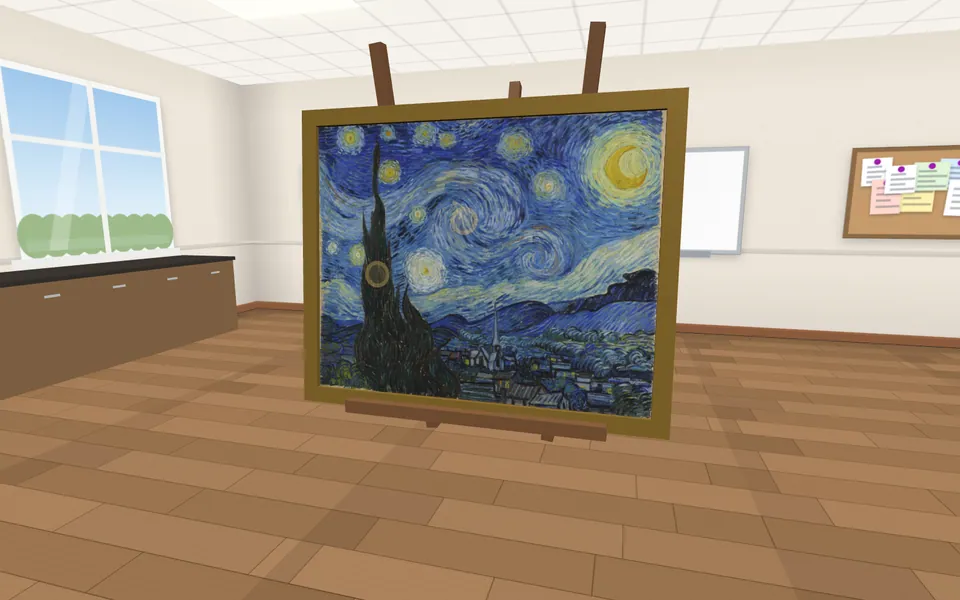
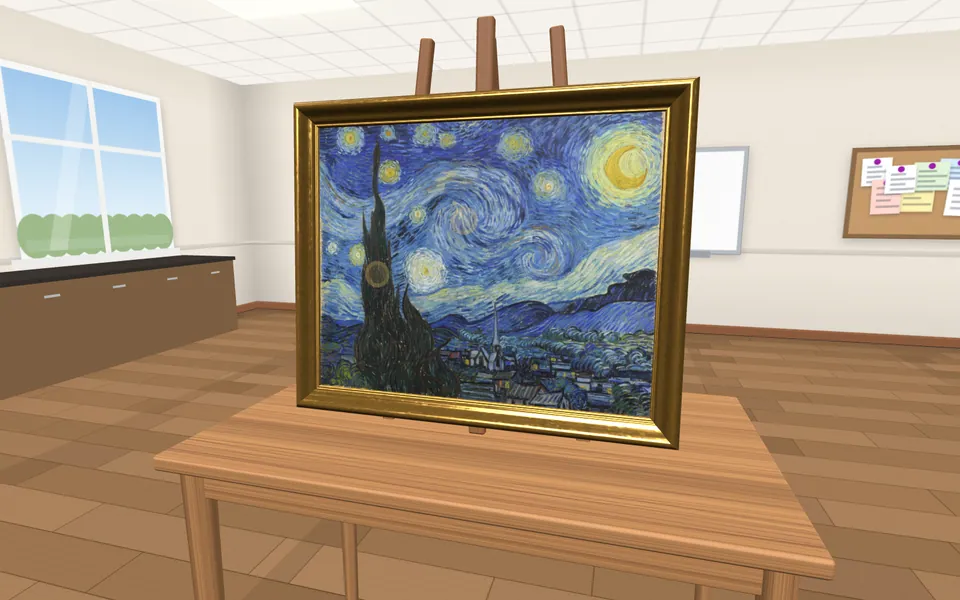
Art Gallery: carved gilt frames with mitred corners, wood grain, a proper desk and studio easel, varnish and canvas weave, studio reflections; refresh its pictures

Changed region(s): [[0.1562, 0.03, 0.875, 1.0], [0.3438, 0.9, 0.375, 1.0]]

diff --git a/lessons/art-gallery/src/model/Props.js b/lessons/art-gallery/src/model/Props.js
@@ -1,0 +1,253 @@
+import * as THREE from 'three';
+import { RoundedBoxGeometry } from 'three/addons/geometries/RoundedBoxGeometry.js';
+
+// The furniture of the Art Gallery, made in code (nothing downloaded): wood with a real grain, a carved gilt
+// frame moulding with mitred corners, the canvas weave under the varnish, a desk and a studio easel.
+
+const cache = new Map();
+const once = (key, make) => {
+  if (!cache.has(key)) cache.set(key, make());
+  return cache.get(key);
+};
+
+function canvasTexture(w, h, draw, srgb = true) {
+  const c = document.createElement('canvas');
+  c.width = w;
+  c.height = h;
+  draw(c.getContext('2d'), w, h);
+  const t = new THREE.CanvasTexture(c);
+  if (srgb) t.colorSpace = THREE.SRGBColorSpace;
+  t.wrapS = t.wrapT = THREE.RepeatWrapping;
+  t.anisotropy = 8;
+  return t;
+}
+
+// a small seeded random, so the grain is the same every time
+function rng(seed) {
+  let s = seed;
+  return () => ((s = (s * 16807) % 2147483647) / 2147483647);
+}
+
+/** Wood grain running along the texture's width: long wavy streaks, darker growth lines and a few knots. */
+function grain(base, dark, seed) {
+  return canvasTexture(512, 512, (g, W, H) => {
+    const r = rng(seed);
+    g.fillStyle = base;
+    g.fillRect(0, 0, W, H);
+    // broad tonal bands
+    for (let i = 0; i < 14; i++) {
+      g.fillStyle = `rgba(${dark},${0.04 + r() * 0.08})`;
+      g.fillRect(0, r() * H, W, 8 + r() * 40);
+    }
+    // the grain lines: thin, slightly wavy
+    for (let i = 0; i < 170; i++) {
+      const y0 = r() * H, amp = 2 + r() * 6, f = 0.004 + r() * 0.01, ph = r() * 6;
+      g.strokeStyle = `rgba(${dark},${0.08 + r() * 0.22})`;
+      g.lineWidth = 0.6 + r() * 1.6;
+      g.beginPath();
+      for (let x = 0; x <= W; x += 8) {
+        const y = y0 + Math.sin(x * f + ph) * amp;
+        x ? g.lineTo(x, y) : g.moveTo(x, y);
+      }
+      g.stroke();
+    }
+    // two small knots, with the grain flowing around them
+    for (let k = 0; k < 2; k++) {
+      const cx = r() * W, cy = r() * H;
+      for (let j = 6; j > 0; j--) {
+        g.strokeStyle = `rgba(${dark},${0.12 + j * 0.03})`;
+        g.lineWidth = 1.2;
+        g.beginPath();
+        g.ellipse(cx, cy, j * 5, j * 2, 0, 0, Math.PI * 2);
+        g.stroke();
+      }
+    }
+    // fine pores
+    for (let i = 0; i < 3000; i++) {
+      g.fillStyle = `rgba(${dark},${r() * 0.12})`;
+      g.fillRect(r() * W, r() * H, 1 + r() * 3, 1);
+    }
+  });
+}
+
+const grains = {
+  desk: () => once('g-desk', () => grain('#a8774a', '70,40,20', 7)),
+  easel: () => once('g-easel', () => grain('#8a5a34', '50,28,12', 31)),
+  back: () => once('g-back', () => grain('#6d5338', '40,26,14', 53)),
+};
+
+/**
+ * A wood material. `along`: which way the grain runs on the part ('x' for a long table top, 'y' for a leg).
+ * `repeat`: how many times the texture repeats along the grain.
+ */
+export function woodMaterial(kind = 'desk', along = 'x', repeat = 1) {
+  return once(`wood-${kind}-${along}-${repeat}`, () => {
+    const map = grains[kind]().clone();
+    map.needsUpdate = true;
+    map.center.set(0.5, 0.5);
+    if (along === 'y') map.rotation = Math.PI / 2;
+    map.repeat.set(repeat, 1);
+    return new THREE.MeshStandardMaterial({ map, bumpMap: map, bumpScale: 0.6, roughness: 0.58, envMapIntensity: 0.5 });
+  });
+}
+
+/** Burnished gold leaf: warm, reflective, with worn and darker patches. */
+export function goldMaterial() {
+  return once('gold', () => {
+    const map = canvasTexture(256, 256, (g, W, H) => {
+      const r = rng(101);
+      g.fillStyle = '#ffffff';
+      g.fillRect(0, 0, W, H);
+      for (let i = 0; i < 900; i++) {
+        g.fillStyle = `rgba(${r() < 0.7 ? '90,60,20' : '255,240,200'},${r() * 0.14})`;
+        const s = 1 + r() * 7;
+        g.fillRect(r() * W, r() * H, s, s * (0.3 + r()));
+      }
+    });
+    const rough = canvasTexture(128, 128, (g, W, H) => {
+      const r = rng(202);
+      g.fillStyle = '#5a5a5a';
+      g.fillRect(0, 0, W, H);
+      for (let i = 0; i < 600; i++) {
+        g.fillStyle = `rgba(${r() < 0.5 ? '255,255,255' : '0,0,0'},${r() * 0.25})`;
+        g.fillRect(r() * W, r() * H, 1 + r() * 5, 1 + r() * 5);
+      }
+    }, false);
+    return new THREE.MeshStandardMaterial({ color: 0xc79a48, map, metalness: 0.88, roughness: 0.44, roughnessMap: rough, envMapIntensity: 1.0 });
+  });
+}
+
+/** The canvas weave, felt rather than seen through the varnish (a bump texture; tile it about every 5 mm). */
+export function weave() {
+  return once('weave', () => canvasTexture(32, 32, (g, W, H) => {
+    g.fillStyle = '#808080';
+    g.fillRect(0, 0, W, H);
+    for (let i = 0; i < 4; i++) {
+      g.fillStyle = 'rgba(255,255,255,0.35)';
+      g.fillRect(0, i * 8 + 1, W, 4);
+      g.fillStyle = 'rgba(0,0,0,0.25)';
+      g.fillRect(i * 8 + 1, 0, 4, H);
+    }
+  }, false));
+}
+
+// ── the frame moulding ─────────────────────────────────
+
+// The moulding's cross-section from the inner edge outwards: [out, depth], in frame widths. A lip over the canvas
+// edge, a bead, a hollow (cove), the rounded crest (ogee) and the outer edge, then the back.
+const PROFILE = [
+  [-0.05, 0.02], [-0.05, 0.09], [0.0, 0.13], [0.05, 0.11], [0.1, 0.13], [0.14, 0.2],
+  [0.2, 0.24], [0.28, 0.26], [0.36, 0.3], [0.44, 0.38], [0.52, 0.47], [0.6, 0.53],
+  [0.68, 0.56], [0.76, 0.56], [0.83, 0.52], [0.89, 0.45], [0.94, 0.36], [0.98, 0.27],
+  [1.0, 0.2], [1.0, -0.12], [0.6, -0.12],
+];
+
+/**
+ * The frame round a w × h painting, t wide: each point of the cross-section traced round the rectangle, so the
+ * corners are mitred like a real frame. The canvas is at z = 0, facing +z.
+ */
+export function frameGeometry(w, h, t) {
+  const pos = [], uv = [], index = [];
+  const n = PROFILE.length;
+  for (let s = 0; s < 4; s++) {
+    const base = pos.length / 3;
+    for (let i = 0; i < n; i++) {
+      const [o, z] = PROFILE[i];
+      const X = w / 2 + o * t, Y = h / 2 + o * t;
+      const c = [[-X, -Y], [X, -Y], [X, Y], [-X, Y]]; // anticlockwise seen from the front
+      const a = c[s], b = c[(s + 1) % 4];
+      pos.push(a[0], a[1], z * t, b[0], b[1], z * t);
+      const len = s % 2 ? h : w;
+      uv.push(0, i / (n - 1), len / 0.25, i / (n - 1));
+    }
+    for (let i = 0; i < n - 1; i++) {
+      const a = base + i * 2, b = a + 1, c = a + 3, d = a + 2;
+      index.push(a, c, b, a, d, c);
+    }
+  }
+  const geo = new THREE.BufferGeometry();
+  geo.setAttribute('position', new THREE.Float32BufferAttribute(pos, 3));
+  geo.setAttribute('uv', new THREE.Float32BufferAttribute(uv, 2));
+  geo.setIndex(index);
+  geo.computeVertexNormals();
+  return geo;
+}
+
+// ── furniture ──────────────────────────────────────────
+
+/** A square leg that tapers towards the foot (a four-sided cylinder turned to square). */
+function taperedLeg(top, foot, h, mat) {
+  const m = new THREE.Mesh(new THREE.CylinderGeometry(top * Math.SQRT1_2, foot * Math.SQRT1_2, h, 4, 1), mat);
+  m.rotation.y = Math.PI / 4;
+  return m;
+}
+
+/** A wooden desk whose top surface is at y = topY, centred on (0, z). */
+export function desk(topY, z, w = 1.3, d = 0.75, floorY = topY - 0.9) {
+  const g = new THREE.Group();
+  const top = new THREE.Mesh(new RoundedBoxGeometry(w, 0.035, d, 3, 0.008), woodMaterial('desk', 'x', 1));
+  top.position.set(0, topY - 0.0175, z);
+  g.add(top);
+  // the apron: boards just under the top, joining the legs
+  const apron = woodMaterial('desk', 'x', 2);
+  const legIn = 0.06;
+  for (const [aw, ad, x, zz] of [[w - 2 * legIn, 0.02, 0, z + d / 2 - legIn], [w - 2 * legIn, 0.02, 0, z - d / 2 + legIn], [0.02, d - 2 * legIn, -w / 2 + legIn, z], [0.02, d - 2 * legIn, w / 2 - legIn, z]]) {
+    const b = new THREE.Mesh(new RoundedBoxGeometry(aw, 0.08, ad, 2, 0.004), apron);
+    b.position.set(x, topY - 0.035 - 0.04, zz);
+    g.add(b);
+  }
+  const legH = topY - 0.035 - floorY;
+  const legMat = woodMaterial('desk', 'y', 1);
+  for (const sx of [-1, 1]) for (const sz of [-1, 1]) {
+    const l = taperedLeg(0.05, 0.034, legH, legMat);
+    l.position.set(sx * (w / 2 - legIn), floorY + legH / 2, z + sz * (d / 2 - legIn));
+    g.add(l);
+  }
+  return g;
+}
+
+/**
+ * A studio table easel standing on y = baseY: two splayed front legs, a back leg, a central mast, a crossbar, a
+ * tray with a lip at trayY for the painting to rest on, and a top clamp (move `clamp.position.y` to the
+ * painting's top edge). Leans back by `lean`.
+ */
+export function easel(baseY, trayY, trayZ, lean = 0.08) {
+  const g = new THREE.Group();
+  const mat = woodMaterial('easel', 'y', 1);
+  const across = woodMaterial('easel', 'x', 1);
+  const H = 0.95;
+  const piece = (w, h, d, m = mat) => new THREE.Mesh(new RoundedBoxGeometry(w, h, d, 2, Math.min(w, d) * 0.25), m);
+  // front legs: wider at the foot, leaning back with the painting
+  for (const sx of [-1, 1]) {
+    const l = piece(0.032, H, 0.024);
+    l.position.set(sx * 0.2, baseY + H / 2 - 0.02, -0.15);
+    l.rotation.set(-lean, 0, sx * 0.1);
+    g.add(l);
+  }
+  // back leg: its foot behind, its top meeting the front legs
+  const back = piece(0.03, H * 1.02, 0.022);
+  back.position.set(0, baseY + H / 2 - 0.02, -0.33);
+  back.rotation.x = 0.32;
+  g.add(back);
+  // the mast: up the middle, behind the painting
+  const mast = piece(0.04, H, 0.022);
+  mast.position.set(0, baseY + H / 2, trayZ - 0.065);
+  mast.rotation.x = -lean;
+  g.add(mast);
+  // a crossbar between the front legs, low down
+  const bar = piece(0.36, 0.024, 0.02, across);
+  bar.position.set(0, baseY + 0.03, -0.12);
+  g.add(bar);
+  // the tray (with a lip at the front, so the painting cannot slide off)
+  const tray = piece(0.62, 0.022, 0.1, across);
+  tray.position.set(0, trayY - 0.011, trayZ - 0.03);
+  g.add(tray);
+  const lip = piece(0.62, 0.03, 0.012, across);
+  lip.position.set(0, trayY + 0.006, trayZ + 0.017);
+  g.add(lip);
+  // the top clamp, sliding on the mast
+  const clamp = piece(0.11, 0.03, 0.05, across);
+  clamp.position.set(0, trayY + 0.4, trayZ - 0.035);
+  g.add(clamp);
+  return { group: g, clamp };
+}

diff --git a/lessons/art-gallery/src/model/Gallery.js b/lessons/art-gallery/src/model/Gallery.js
@@ -1,5 +1,6 @@
 import * as THREE from 'three';
 import { PAINTINGS } from '../data/paintings.js';
+import { woodMaterial, goldMaterial, weave, frameGeometry, desk, easel } from './Props.js';
 
 // The easel on the desk, the painting on it (real size whenever it fits, otherwise scaled down to fit), its
 // hotspots, the "True Size" copy standing behind the desk, and the zoom for the guessing game.
@@ -10,36 +11,31 @@ const AT = new THREE.Vector3(0, TOP + 0.1, -0.05); // the bottom middle of the p
 const BIG_BACK = 1.9; // m behind the desk: the true-size painting
 const loader = new THREE.TextureLoader();
 
-const wood = new THREE.MeshStandardMaterial({ color: 0x7a5232, roughness: 0.7 });
-const frameMat = new THREE.MeshStandardMaterial({ color: 0xb8913f, metalness: 0.55, roughness: 0.35 });
-const backMat = new THREE.MeshStandardMaterial({ color: 0x6b5338, roughness: 0.9 }); // the board behind the canvas
-
 /** A painting in its gilt frame: a group whose painting mesh is w by h metres. */
 function framed() {
   const g = new THREE.Group();
-  const canvas = new THREE.Mesh(new THREE.PlaneGeometry(1, 1), new THREE.MeshStandardMaterial({ color: 0xffffff, roughness: 0.85 }));
+  // the painted canvas: a varnished sheen, and the weave just felt under it
+  const bump = weave().clone();
+  bump.needsUpdate = true;
+  const canvas = new THREE.Mesh(new THREE.PlaneGeometry(1, 1), new THREE.MeshStandardMaterial({ color: 0xffffff, roughness: 0.5, bumpMap: bump, bumpScale: 0.35, envMapIntensity: 0.3 }));
   g.add(canvas);
-  const back = new THREE.Mesh(new THREE.BoxGeometry(1, 1, 1), backMat);
+  // the back board, so it is solid from behind
+  const back = new THREE.Mesh(new THREE.BoxGeometry(1, 1, 1), woodMaterial('back', 'x', 1));
   g.add(back);
-  const bars = [0, 1, 2, 3].map(() => {
-    const m = new THREE.Mesh(new THREE.BoxGeometry(1, 1, 1), frameMat);
-    g.add(m);
-    return m;
-  });
-  return { g, canvas, bars, back };
+  const frame = new THREE.Mesh(new THREE.BufferGeometry(), goldMaterial());
+  g.add(frame);
+  return { g, canvas, back, frame, bump };
 }
 
 function sizeFrame(f, w, h) {
   f.canvas.scale.set(w, h, 1);
-  f.back.scale.set(w, h, 0.02);
-  f.back.position.z = -0.011; // just behind the canvas, so it is solid from behind
-  const t = Math.max(0.025, Math.min(w, h) * 0.06); // frame width
-  const d = t * 0.6;
-  const [top, bottom, left, right] = f.bars;
-  top.scale.set(w + 2 * t, t, d); top.position.set(0, h / 2 + t / 2, 0);
-  bottom.scale.set(w + 2 * t, t, d); bottom.position.set(0, -h / 2 - t / 2, 0);
-  left.scale.set(t, h, d); left.position.set(-w / 2 - t / 2, 0, 0);
-  right.scale.set(t, h, d); right.position.set(w / 2 + t / 2, 0, 0);
+  f.bump.repeat.set(w / 0.005, h / 0.005); // a thread about every 1.25 mm
+  const t = THREE.MathUtils.clamp(Math.min(w, h) * 0.09, 0.035, 0.24); // the frame's width
+  f.back.scale.set(w + 1.9 * t, h + 1.9 * t, 0.012);
+  f.back.position.z = -0.12 * t - 0.006;
+  f.frame.geometry.dispose();
+  f.frame.geometry = frameGeometry(w, h, t);
+  f.t = t;
 }
 
 export class Gallery {
@@ -48,29 +44,11 @@ export class Gallery {
     this.group = new THREE.Group();
     app.lab.add(this.group);
     // a wooden desk under the easel (on a computer only: in the headset the student's own desk is there)
-    this.desk = new THREE.Group();
-    const deskTop = new THREE.Mesh(new THREE.BoxGeometry(1.3, 0.035, 0.75), wood);
-    deskTop.position.set(0, TOP - 0.0175, -0.15);
-    this.desk.add(deskTop);
-    for (const [x, z] of [[-0.6, -0.48], [0.6, -0.48], [-0.6, 0.18], [0.6, 0.18]]) {
-      const l = new THREE.Mesh(new THREE.BoxGeometry(0.045, 0.865, 0.045), wood);
-      l.position.set(x, TOP - 0.035 - 0.4325, z);
-      this.desk.add(l);
-    }
+    this.desk = desk(TOP, -0.15);
     this.group.add(this.desk);
-    // a small table easel: two front legs, a back leg and a ledge
-    const leg = (x, z, rx, rz) => {
-      const m = new THREE.Mesh(new THREE.BoxGeometry(0.03, 0.95, 0.03), wood);
-      m.position.set(x, TOP + 0.43, z);
-      m.rotation.set(rx, 0, rz);
-      this.group.add(m);
-    };
-    leg(-0.2, -0.15, -0.08, -0.1); // front legs: wider at the floor, leaning back
-    leg(0.2, -0.15, -0.08, 0.1);
-    leg(0, -0.33, 0.32, 0); // back leg: foot behind, top meeting the front legs
-    this.ledge = new THREE.Mesh(new THREE.BoxGeometry(0.6, 0.03, 0.08), wood);
-    this.ledge.position.set(0, AT.y - 0.03, AT.z + 0.02);
-    this.group.add(this.ledge);
+    // a studio table easel, the painting resting on its tray
+    this.easel = easel(TOP, AT.y, AT.z);
+    this.group.add(this.easel.group);
     // the painting on the easel
     this.small = framed();
     this.group.add(this.small.g);
@@ -125,6 +103,7 @@ export class Gallery {
     sizeFrame(this.small, s.w, s.h);
     this.small.g.position.set(AT.x, AT.y + s.h / 2, AT.z);
     this.small.g.rotation.x = -0.08; // leaning back a little on the easel
+    this.easel.clamp.position.y = AT.y + s.h + this.small.t * 0.6; // the top clamp holds the frame
     sizeFrame(this.big, p.w / 100, p.h / 100);
     // hotspots on the painting
     this.spots.forEach((r, i) => {

diff --git a/lessons/art-gallery/src/main.js b/lessons/art-gallery/src/main.js
@@ -2,6 +2,7 @@ import * as THREE from 'three';
 import { LessonApp } from '../../../shared/LessonApp.js';
 import { CanvasPanel } from '../../../shared/ui/CanvasPanel.js';
 import { sound } from '../../../shared/util/sound.js';
+import { studioReflections } from '../../../shared/util/reflections.js';
 import { PAINTINGS, QUIZ } from './data/paintings.js';
 import { Gallery } from './model/Gallery.js';
 import { drawControls, drawInfo, drawCard, MODES } from './ui/panels.js';
@@ -40,6 +41,7 @@ class App extends LessonApp {
     this.explainPanel.mesh.rotation.x = 0.18;
     this.lab.add(this.explainPanel.mesh);
     this.panels = [this.controlPanel, this.infoPanel, this.explainPanel];
+    studioReflections(this); // gold frames and varnish catch the light
     this.gallery = new Gallery(this);
     this.gallery.show(this.state.painting);
     this.controlPanel.setBuilder((ui) => drawControls(ui, this));
